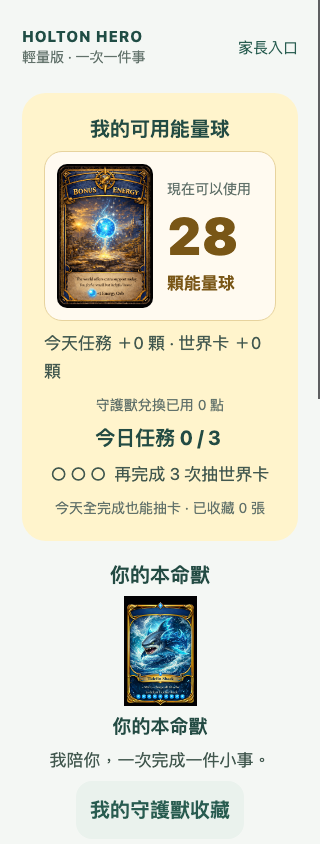
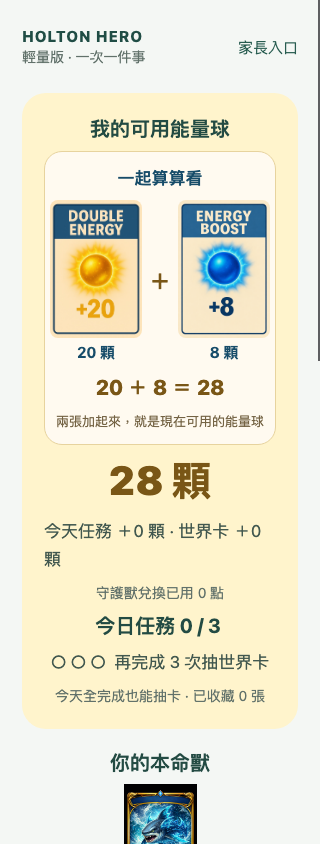
feat: energy-card addition wallet [actor=bot approval=user:energy-math trigger=card-design]

diff --git a/src/LightApp.tsx b/src/LightApp.tsx
@@ -1,8 +1,9 @@
 import React, { useEffect, useRef, useState } from 'react';
 import { Image, Modal, Pressable, SafeAreaView, ScrollView, StyleSheet, Text, TextInput, View } from 'react-native';
+import EnergyMath from './EnergyMath';
 import AsyncStorage from '@react-native-async-storage/async-storage';
 import { loadPersistedAppState } from './lib/persistence';
-import { coreGuardianArchetypeImages, coreGuardianStageImages, timeChallenges, worldEvents, sopCards, badgeImages, guardianBeasts, supportTools, transitionCards, activeSkills, worldEventImages } from './data/holtonCatalog';
+import { coreGuardianArchetypeImages, coreGuardianStageImages, timeChallenges, worldEvents, sopCards, badgeImages, guardianBeasts, supportTools, transitionCards, activeSkills } from './data/holtonCatalog';
 import { chooseFinishEncouragement, finishEncouragements, type FinishContext } from './data/finishEncouragements';
 import { planWorldRedemption, redeemWorldCards, worldExchangeDay, worldRewardLabel, type WorldDraw, type WorldRedemption } from './data/worldRedemption';
 import type { PersistedAppState } from './types/holton';
@@ -196,7 +197,7 @@ export default function LightApp() {
       <View style={styles.card}><Text style={styles.section}>2 · 卡住時，這樣陪他說</Text><Text style={styles.quote}>「我在這裡。我們先做最小的一步，你想自己試，還是一起做？」</Text><Text style={styles.body}>時間到了也不用扣分。先看看需要幫忙，還是多一點時間。</Text></View>
       <View style={styles.card}><Text style={styles.section}>3 · 今天完成 {today.length} 件事</Text>{today.length ? today.map(item => <View key={item.id} style={styles.record}><Text style={styles.body}>✓ {item.title}</Text><Text style={styles.caption}>{new Date(item.at).toLocaleTimeString('zh-TW', { hour: '2-digit', minute: '2-digit' })} · {durationLabel(item.minutes)}{item.cardId ? ` · ${timeChallenges.find(card => card.id === item.cardId)?.name || "任務卡"}` : ""} · ＋1 能量球{item.supportUsed?.length ? ` · ${item.supportUsed.map(id => helpCards.find(card => card.id === id)?.title).filter(Boolean).join('、')}` : item.helpUsed ? ' · 有表達求助需要' : ''}</Text></View>) : <Text style={styles.body}>今天還沒有完成紀錄，慢慢來就好。</Text>}<Text style={styles.caption}>輕量版紀錄保存在這台裝置、這個瀏覽器；舊版資料保留。</Text></View>
     </> : <>
-      <View style={styles.scorePanel} accessibilityLiveRegion="polite"><Text style={styles.section}>我的可用能量球</Text><View style={styles.energyWallet}><Image source={worldEventImages.bonusEnergy} accessibilityLabel="能量球原版卡圖" resizeMode="contain" style={styles.energyCardArt} /><View style={styles.energyBalance}><Text style={styles.caption}>現在可以使用</Text><Text accessibilityLabel={`可用能量球 ${state.orbs} 顆`} numberOfLines={1} adjustsFontSizeToFit minimumFontScale={0.4} style={[styles.energyNumber, { fontSize: Math.min(52, 132 / String(state.orbs).length) }]}>{state.orbs}</Text><Text style={styles.energyUnit}>顆能量球</Text></View></View><Text style={styles.body}>今天任務 ＋{today.length} 顆 · 世界卡 ＋{todayExchangePoints} 顆</Text><Text style={styles.caption}>守護獸兌換已用 {(state.guardianCards ?? []).filter(item => item.source === 'sunday').reduce((sum, item) => sum + item.cost, 0)} 點</Text><Text style={styles.section}>今日任務 {today.length} / {state.dailyGoal ?? 3} {today.length >= (state.dailyGoal ?? 3) ? '✓ 全完成' : ''}</Text><Text style={styles.body}>{'● '.repeat(state.rewardProgress ?? 0)}{'○ '.repeat(3 - (state.rewardProgress ?? 0))} 再完成 {3 - (state.rewardProgress ?? 0)} 次抽世界卡</Text><Text style={styles.caption}>今天全完成也能抽卡 · 已收藏 {state.collection?.length ?? 0} 張</Text></View>
+      <View style={styles.scorePanel} accessibilityLiveRegion="polite"><Text style={styles.section}>我的可用能量球</Text><EnergyMath total={state.orbs} /><Text accessibilityLabel={`可用能量球 ${state.orbs} 顆`} style={[styles.energyNumber, { fontSize: Math.min(40, 180 / String(state.orbs).length) }]}>{state.orbs} 顆</Text><Text style={styles.body}>今天任務 ＋{today.length} 顆 · 世界卡 ＋{todayExchangePoints} 顆</Text><Text style={styles.caption}>守護獸兌換已用 {(state.guardianCards ?? []).filter(item => item.source === 'sunday').reduce((sum, item) => sum + item.cost, 0)} 點</Text><Text style={styles.section}>今日任務 {today.length} / {state.dailyGoal ?? 3} {today.length >= (state.dailyGoal ?? 3) ? '✓ 全完成' : ''}</Text><Text style={styles.body}>{'● '.repeat(state.rewardProgress ?? 0)}{'○ '.repeat(3 - (state.rewardProgress ?? 0))} 再完成 {3 - (state.rewardProgress ?? 0)} 次抽世界卡</Text><Text style={styles.caption}>今天全完成也能抽卡 · 已收藏 {state.collection?.length ?? 0} 張</Text></View>
       <View style={styles.companion}><Text style={styles.section}>{companion ? '今日守護夥伴' : '你的本命獸'}</Text><Image accessibilityLabel={companion ? `${companion.name} ${companion.label} 今日守護夥伴` : '陪伴你的本命獸'} source={companion?.image ?? guardianImage} style={companion ? styles.companionArt : styles.guardian} resizeMode="contain" /><Text style={styles.guardianName}>{companion ? `${companion.name} · ${companion.label}` : guardian.coreGuardianName || '你的本命獸'}</Text><Text style={styles.body}>我陪你，一次完成一件小事。</Text>{companion ? <Text style={styles.caption}>本命獸：{guardian.coreGuardianName || '你的本命獸'} · 身分保留</Text> : null}{button('我的守護獸收藏', () => setCollectionOpen(true), true)}{button('世界卡換點數', () => setWorldExchangeOpen(true), true)}</View>
       <View onLayout={event => { taskTop.current = event.nativeEvent.layout.y; }} style={styles.card}><Text style={styles.caption}>{state.phase === 'ready' ? '① 選一張任務卡' : state.phase === 'preparing' ? '② 準備好再開始' : state.phase === 'active' ? '③ 一起做這件事' : state.phase === 'finishing' ? '④ 把任務收好' : '⑤ 完成了，休息一下'}</Text>{companion && ['preparing', 'active', 'finishing'].includes(state.phase) ? <View style={styles.companionRow}><Image source={companion.image} accessibilityLabel={`${companion.name} 陪你做任務`} style={styles.companionThumb} resizeMode="contain" /><Text style={styles.caption}>{companion.name} 陪你一起做</Text></View> : null}<Text style={styles.heading}>{state.phase === 'done' ? '你做到了！' : state.title || '今天想一起做什麼？'}</Text>
       {state.phase === 'ready' ? <>

diff --git a/src/EnergyMath.tsx b/src/EnergyMath.tsx
@@ -1,0 +1,59 @@
+import React from 'react';
+import { Image, StyleSheet, Text, View, type ImageSourcePropType } from 'react-native';
+
+const blue = require('../assets/cards/energy-math/energy-5.jpg');
+const gold = require('../assets/cards/energy-math/energy-20.jpg');
+const cards: Record<number, ImageSourcePropType> = {
+  5: blue, 20: gold,
+  6: require('../assets/cards/energy-math/energy-6.png'),
+  7: require('../assets/cards/energy-math/energy-7.png'),
+  8: require('../assets/cards/energy-math/energy-8.png'),
+  9: require('../assets/cards/energy-math/energy-9.png'),
+};
+
+// Presentation only: never round, credit, debit, or persist the actual wallet.
+export function splitEnergy(total: number): [number, number] {
+  const first = total >= 10 ? Math.floor(total / 10) * 10 : Math.floor(total / 2);
+  return [first, Number((total - first).toFixed(8))];
+}
+
+function NumberCard({ value }: { value: number }) {
+  return <View style={styles.cardColumn} accessibilityLabel={`能量數字卡 ${value}`}>
+    {cards[value] ? <Image source={cards[value]} resizeMode="contain" style={styles.art} /> :
+      <View style={styles.dynamicCard}>
+        <Text style={styles.header}>ENERGY</Text>
+        <View style={styles.orbWindow}>
+          <Image source={value >= 10 ? gold : blue} style={styles.orbSource} />
+        </View>
+        <Text numberOfLines={1} style={[styles.value, { fontSize: Math.min(30, 100 / String(value).length) }]}>{value}</Text>
+      </View>}
+    <Text style={styles.cardLabel}>{value} 顆</Text>
+  </View>;
+}
+
+export default function EnergyMath({ total }: { total: number }) {
+  const [left, right] = splitEnergy(total);
+  return <View style={styles.panel}>
+    <Text style={styles.title}>一起算算看</Text>
+    <View style={styles.row}><NumberCard value={left} /><Text style={styles.plus}>＋</Text><NumberCard value={right} /></View>
+    <Text accessibilityLabel={`能量球算式 ${left} 加 ${right} 等於 ${total}`} style={styles.equation}>{left} ＋ {right} ＝ {total}</Text>
+    <Text style={styles.caption}>兩張加起來，就是現在可用的能量球</Text>
+  </View>;
+}
+
+const styles = StyleSheet.create({
+  panel: { width: '100%', alignItems: 'center', gap: 10, backgroundColor: '#fffaf0', borderWidth: 1, borderColor: '#e7d39e', borderRadius: 18, paddingVertical: 14, paddingHorizontal: 8 },
+  title: { color: '#174c69', fontSize: 17, fontWeight: '700' },
+  row: { flexDirection: 'row', alignItems: 'center', justifyContent: 'center', gap: 6 },
+  cardColumn: { width: 92, alignItems: 'center', gap: 4 },
+  art: { width: 92, height: 138, borderRadius: 8 },
+  plus: { color: '#795616', fontSize: 24, fontWeight: '800' },
+  dynamicCard: { width: 92, height: 138, borderWidth: 3, borderColor: '#144c6a', borderRadius: 8, overflow: 'hidden', backgroundColor: '#ffedc7', alignItems: 'center' },
+  header: { width: '100%', backgroundColor: '#215e7c', color: '#ffedc7', fontSize: 16, fontWeight: '900', textAlign: 'center', paddingVertical: 6 },
+  orbWindow: { width: 80, height: 66, overflow: 'hidden' },
+  orbSource: { width: 100, height: 150, position: 'absolute', top: -41, left: -10 },
+  value: { color: '#144c6a', fontWeight: '900', textAlign: 'center', width: '100%' },
+  cardLabel: { color: '#174c69', fontWeight: '700', fontSize: 15 },
+  equation: { fontSize: 21, fontWeight: '800', color: '#795616', textAlign: 'center', flexWrap: 'wrap' },
+  caption: { color: '#746344', fontSize: 13, textAlign: 'center' },
+});

diff --git a/src/data/holtonCatalog.ts b/src/data/holtonCatalog.ts
@@ -691,7 +691,12 @@ export const energyCards: EnergyCard[] = [
   { label: "+3", amount: 3, kind: "daily" },
   { label: "+4", amount: 4, kind: "daily" },
   { label: "+5", amount: 5, kind: "daily" },
+  { label: "+6", amount: 6, kind: "daily" },
+  { label: "+7", amount: 7, kind: "daily" },
+  { label: "+8", amount: 8, kind: "daily" },
+  { label: "+9", amount: 9, kind: "daily" },
   { label: "+10", amount: 10, kind: "boost" },
+  { label: "+20", amount: 20, kind: "boost" },
   { label: "+30", amount: 30, kind: "boost" },
   { label: "+50", amount: 50, kind: "boost" },
   { label: "+100", amount: 100, kind: "boost" },

diff --git a/reports/light-v1/REVIEW.md b/reports/light-v1/REVIEW.md
@@ -95,3 +95,8 @@ Checks: typecheck and component ESLint pass; Expo export passes. Browser 390×84
 - Visual only; no storage/reward/exchange changes. Numeric font scales with digit count because web Text auto-fit alone clipped six-digit balances.
 - TypeScript, component lint, web export passed. Browser visual checks at 390 and 320 widths: original image loaded, no page overflow, 999999 balance fits without clipping. energy-wallet-390.png inspected; screenshots use synthetic balance 28.
 - Public release a66d1b5 built and bundle matched; public browser verified original image loading, 390/320 widths and six-digit balance fit using isolated synthetic data.
+
+## 2026-10-19 Energy arithmetic cards
+- User clarified supplied +5 blue / +20 gold cards represent balance addends, not changed rewards. Added read-only EnergyMath: tens plus remainder, small totals split evenly; zero/one/large totals stay exact. Native framed fallback supports arbitrary values without showing an incorrect printed denomination.
+- Added original supplied cards and built-in image_gen +6/+7/+8/+9 variants in assets/cards/energy-math/. Verified all generated numerals visually. Full generation prompt: Edit target attached blue ENERGY BOOST card; single standalone portrait 2:3; match cream paper, blue rounded border/header, glowing blue orb and typography; change ONLY bottom +5 to +N (N=6,7,8,9); keep ENERGY BOOST, artwork/layout unchanged; full uncropped counting card. Original built-in outputs retained.
+- Existing actual wallet, task rewards, world exchange multipliers and guardian prices unchanged. No quiz gate. Typecheck, component ESLint and web export passed.
